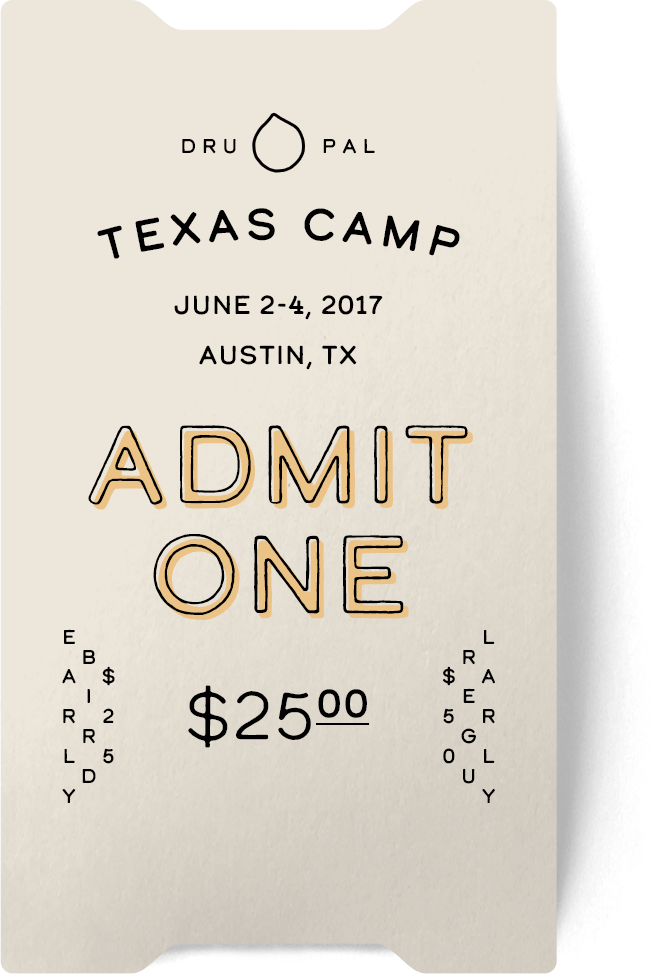
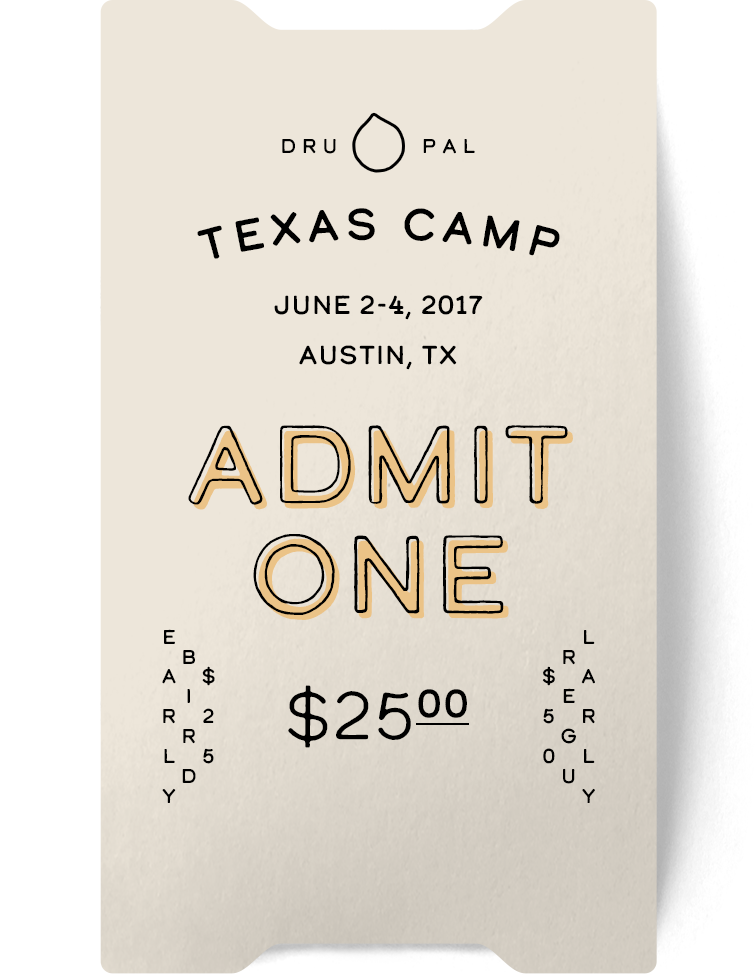
changed up the .right background image strategy, added a few styles from the original frame component to the app component

diff --git a/src/components/Frame/News/_news.scss b/src/components/Frame/News/_news.scss
@@ -1,46 +1,42 @@
 .news {
+
   .background-image {
     opacity: 0.2;
   }
 
-  .newsletter-image {
-    display: flex;
-    flex-direction: column;
-    align-items: center;
+  input[type="text"],
+  input[type="email"] {
+    position: absolute;
+    left: 50%;
+    -webkit-transform: translateX(-50%);
+    transform: translateX(-50%);
+    width: 45%;
 
-    .newsletter {
-      margin-top: -263px;
-      width: 215px;
-    }
+    font-size: 12px;
+    font-family: $f-base;
+    background: transparent;
+    border: 1px solid $c-black;
+    border-radius: 2px;
+    color: $c-black;
+    padding: 15px;
 
-    .mc-field-group {
-      margin-bottom: 15px;
-    }
 
-    input[type="text"],
-    input[type="email"] {
-      font-size: 12px;
-      font-family: $f-base;
-      background: transparent;
-      border: 1px solid $c-black;
-      border-radius: 2px;
+    &::placeholder {
       color: $c-black;
-      padding: 15px;
-      width: 100%;
-
-      &::placeholder {
-        color: $c-black;
-      }
-
-      &:focus {
-        border-color: $c-blue;
-        outline: none;
-      }
     }
 
-    .submit {
-      margin-top: 10px;
-      text-align: center;
+    &:focus {
+      border-color: $c-blue;
+      outline: none;
     }
   }
+
+  input[type="text"] {
+    bottom: 20%;
+  }
+
+  input[type="email"] {
+    bottom: 30%;
+  }
+
 }

diff --git a/src/components/Frame/Skeleton/_skeleton.scss b/src/components/Frame/Skeleton/_skeleton.scss
@@ -18,6 +18,8 @@
     position: relative;
     z-index: 10;
     margin-top: 10vh;
+    overflow: scroll;
+    height: 100%;
   }
 
   .right {
@@ -27,13 +29,27 @@
     height: 100%;
 
     .image-wrapper {
+      margin: auto;
+      position: absolute;
+      top: 0;
+      left: 0;
+      bottom: 0;
+      right: 0;
       height: 80%;
-      margin-top: 10%;
+
+      .button--primary {
+        position: absolute;
+        left: 50%;
+        bottom: 9%;
+        -webkit-transform: translateX(-50%);
+        transform: translateX(-50%)
+      }
 
       img {
         display: block;
         margin: auto;
         height: 100%;
+        width: auto;
       }
 
     }

diff --git a/src/components/App/_app.scss b/src/components/App/_app.scss
@@ -5,6 +5,10 @@ $outer-frame-width: 7.5vh;
   position: relative;
   z-index: 1;
 
+  &::-webkit-scrollbar{
+    display: none;
+  }
+
   @include breakpoint($bp-narrow) {
     margin: $outer-frame-width;
   }
@@ -39,6 +43,7 @@ $outer-frame-width: 7.5vh;
 #middle {
   @extend .clearfix;
   margin-top: $outer-frame-width;
+  background-color: #e3dcd6;
 
   @include breakpoint($bp-narrow) {
     margin-bottom: $outer-frame-width;

diff --git a/src/components/Frame/Tickets/index.js b/src/components/Frame/Tickets/index.js
@@ -5,8 +5,8 @@ import background from './tickets-bg.jpg';
 import ticket from './ticket.png';
 
 function Tickets() {
-  let TicketImage = (<div className="ticket-image">
-    <img src={ticket} alt="register ticket" width="327.5px" />
+  let TicketImage = (<div className="image-wrapper">
+    <img src={ticket} alt="register ticket" />
     <Button link="https://texas-camp-2017.eventbrite.com" text="Register" />
   </div>);
 

diff --git a/src/components/Frame/News/index.js b/src/components/Frame/News/index.js
@@ -5,8 +5,8 @@ import background from './news-bg.jpg';
 import ponyExpress from './pony-express.png';
 
 function News() {
-  let NewsletterImage = (<div className="newsletter-image">
-    <img src={ponyExpress} alt="signup for news" width="376.5px" />
+  let NewsletterImage = (<div className="image-wrapper">
+    <img src={ponyExpress} alt="signup for news" />
     <NewsletterForm />
   </div>);
 

diff --git a/src/components/Frame/Sessions/index.js b/src/components/Frame/Sessions/index.js
@@ -12,7 +12,9 @@ function Sessions() {
       title="Step right up"
       body="Blah blah blah needs words."
       rightElement={
-        <img src={wanted} alt="submit a session" />
+        <div className="image-wrapper">
+          <img src={wanted} alt="submit a session" />
+        </div>
       }
     />
   );

diff --git a/src/components/Frame/Skeleton/index.js b/src/components/Frame/Skeleton/index.js
@@ -22,9 +22,7 @@ class Skeleton extends React.Component {
           </div>
 
           <div className="right">
-            <div className="image-wrapper">
-              {this.props.rightElement}
-            </div>
+            {this.props.rightElement}
           </div>
         </div>
       </div>

diff --git a/src/components/Frame/Tickets/_tickets.scss b/src/components/Frame/Tickets/_tickets.scss
@@ -3,14 +3,4 @@
     opacity: 0.2;
   }
 
-  .ticket-image {
-    display: flex;
-    flex-direction: column;
-    align-items: center;
-
-    .button--primary {
-      margin-top: -75px;
-      margin-right: 50px;
-    }
-  }
 }
